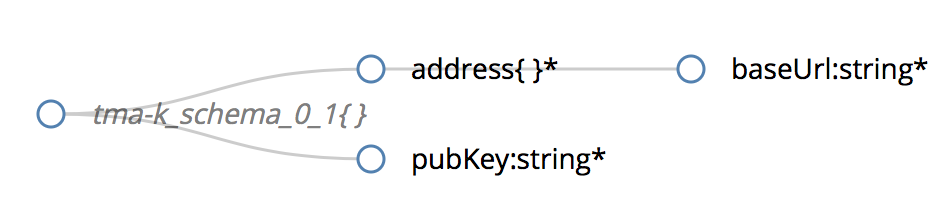
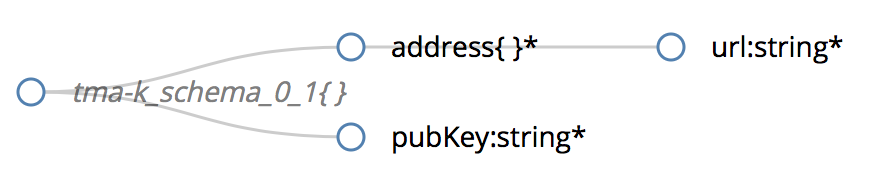
Removing the path field from the list of actions

Changed region(s): [[0.0, 0.1579, 0.9886, 0.8421]]

diff --git a/README.md b/README.md
@@ -21,7 +21,7 @@ The figure below presents a representation of this schema, which is also explain
 Each message includes:
 
 * `address` -- an objet with the information about the ActuatorAPI
-	* `baseUrl` --- the base URL of where the operations are available
+	* `url` --- the URL of where the operations are available. All actions will be available through this URL, which will direct the actuation to the proper operation
 * `PubKey` -- generated once by the ActuatorAPI
 
 -
@@ -35,8 +35,7 @@ The figure below presents a representation of this schema, which is also explain
 Each message includes:
 
 * `actions` -- a list of actions provided by the Actuator
-	* `action` -- name of the action to be performed
-	* `path` -- path of the service to execute the operation
+	* `action` -- name of the action to be performed. This will be used to inform the ActuatorAPI about which action to be performed
 	* `resourceId` -- identifies the resource in which the adaptation can be performed
 	* `configuration` -- list of expected attributes to execute the operation
 		* `key` -- name of the configuration attribute
